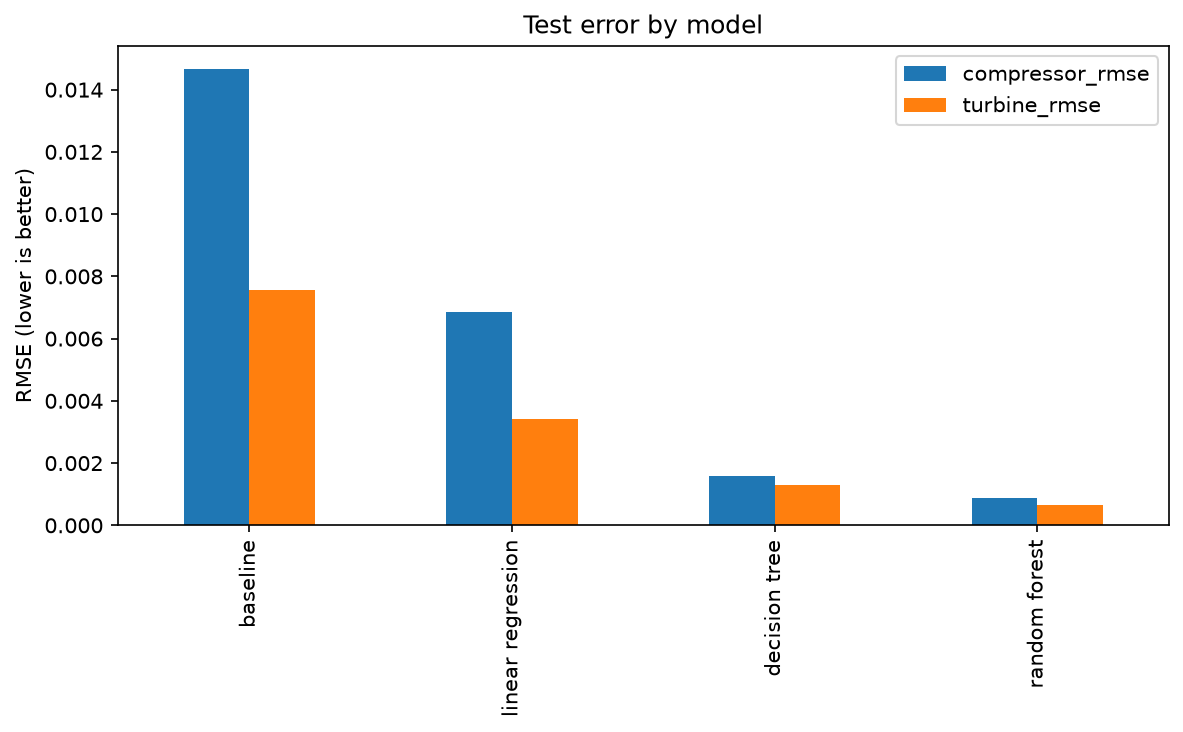
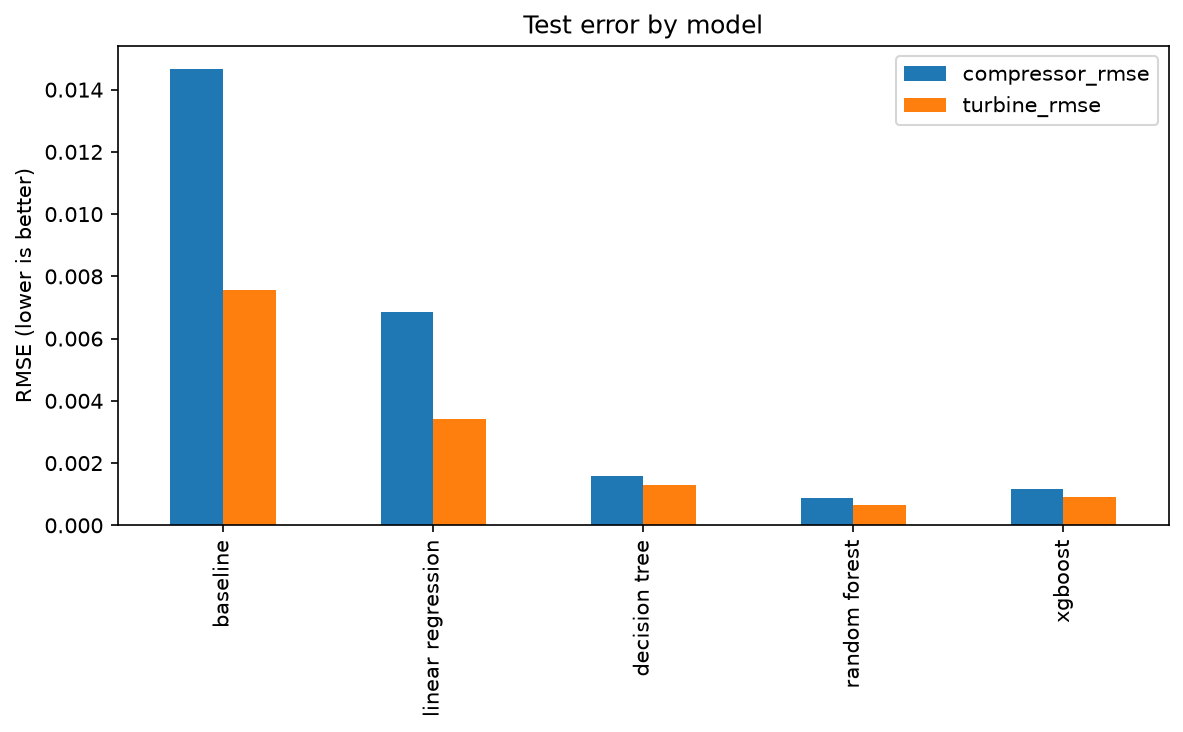
Update results and figures with XGBoost

diff --git a/reports/writeup.md b/reports/writeup.md
@@ -19,6 +19,8 @@ The dataset has 11,934 rows, 16 sensor columns, and 2 targets, being the compres
 ## 4. Preprocessing
 The data was split 80/20 at random (using seed 42) into training and test sets. No scaling or encoding was done since all columns are numeric and the tree-based models don't need scaling. The lever position were kept as an input so the models can compare readings at the same throttle setting. No features were used.
 
+Going to do testing with different seeds/cross validation.
+
 ## 5. Modeling strategy
 Four models were chosen in advance and all are reported, This was a baseline that predicts the training average (the floor), linear regression (simple, interpretable), a decision tree (flexible but high variance), and a random forest (100 averaged trees, which keeps the flexibility and reduces variance). All of them use default settings with no hyperparameter tuning.
 
@@ -34,7 +36,9 @@ Four models were chosen in advance and all are reported, This was a baseline tha
 
 *The test set consisted of 2,387 rows (20%) that were held out before training. Improvement is the reduction in RMSE compared with the baseline. Lower error is better.*
 
-The ranking is the same under RMSE and MAE. Linear regression halves the baseline error but can't follow the curved relationships, such as how fuel flow rises faster at higher speeds. The forest roughly halves the single tree's error. Trade-off: the forest is more complex and slower to train than the tree, but [time one run and state it here], so the accuracy gain justified the cost.
+The ranking is the same under RMSE and MAE. Linear regression halves the baseline error but can't follow the curved relationships, such as how fuel flow rises faster at higher speeds. The random forest roughly halves the single tree's error. However, the forest is more complex and slower to train than the tree.
+
+Need to test and time?
 
 ## 7. Error analysis
 figure 06 to find where predictions stray from the actual values by target and by throttle setting.
